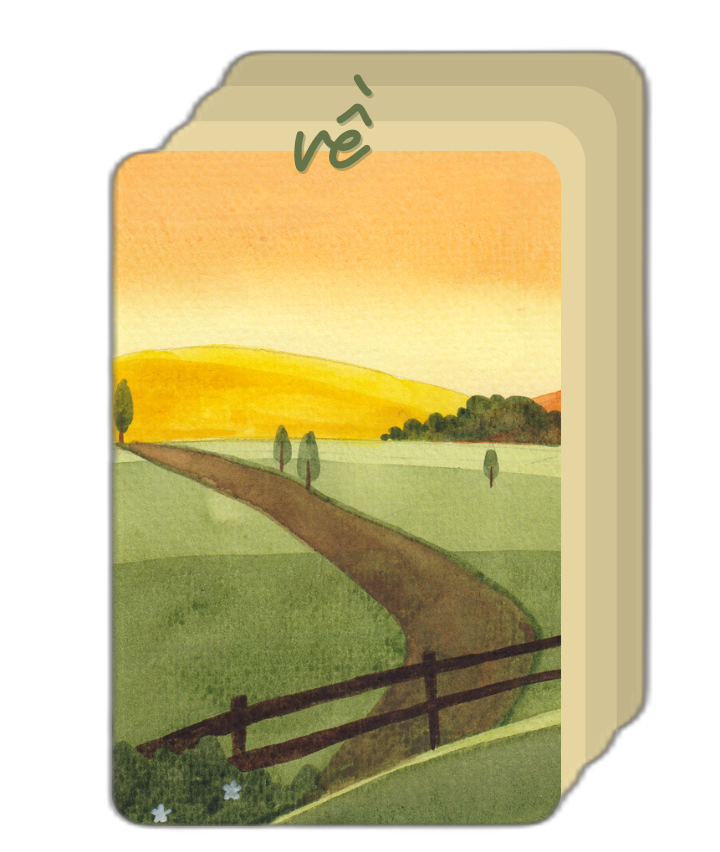
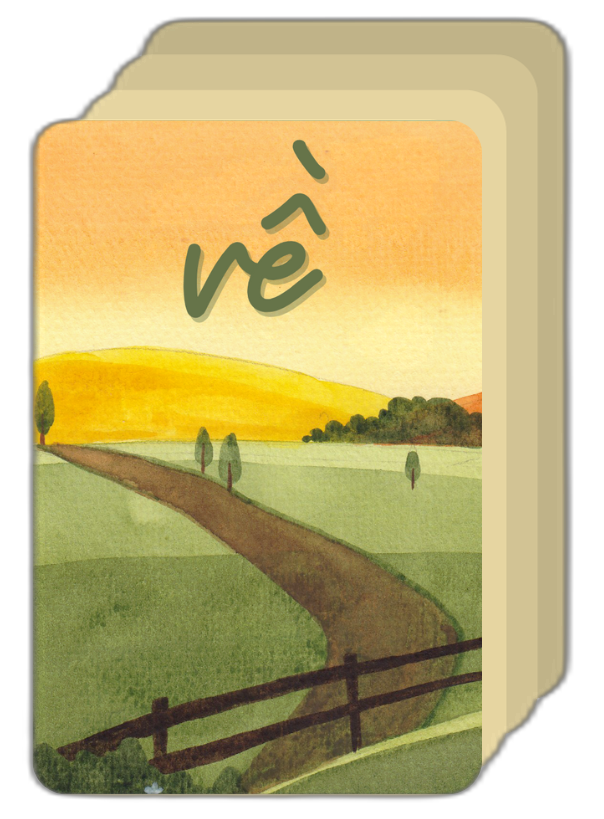
Update UI

diff --git a/style.css b/style.css
@@ -5,7 +5,7 @@ html {
 
 body {
 	background-image: url('./images/background.png');
-	background-size: cover;
+	background-size: initial;
 }
 
 .intro {
@@ -30,31 +30,52 @@ body {
 	font-family: "YADK36WKZLc 0", _fb_, auto;
 }
 
-.intro .gr-button {
+.gr-button {
 	margin-top: 50px;
 }
 
-.intro .gr-button .btn-overview,
-.intro .gr-button .btn-try {
+.gr-button .btn-overview,
+.gr-button .btn-try, 
+.gr-button .btn-back {
 	border-radius: 20px;
-	padding: 13px 7%;
+	padding: 13px;
 	text-decoration: none;
 }
 
-.intro .gr-button .btn-overview a,
-.intro .gr-button .btn-try a {
+.gr-button .btn-overview a,
+.gr-button .btn-try a,
+.gr-button .btn-back a {
 	text-decoration: none;
 	color: #000;
 }
 
-.intro .gr-button .btn-overview {
+.gr-button .btn-overview {
 	background: #bedfe4;
 	margin-right: 20%;
 }
 
-.intro .gr-button .btn-try {
+.gr-button .btn-try, 
+.gr-button .btn-back, 
+.gr-button .icon-instruct {
 	background: #1c2143;
 	color: #fff;
+}
+
+.icon-try, .icon-back {
+	background: #bedfe4;
+	color: #000;
+}
+
+.icon-instruct, .icon-try, .icon-back {
+	padding: 3px 9px;
+	border-radius: 50%;
+	margin-left: 20px;
+	font-family: monospace, serif;
+	font-size: 18px;
+}
+
+.icon-back {
+	margin: 0 20px 0 0;
 }
 
 #content,
@@ -68,27 +89,23 @@ body {
 	cursor: pointer;
 }
 
-.background {
+.result {
 	position: relative;
-	width: 50%;
-	height: auto;
+	height: 445px;
+	width: 300px;
 	margin: 0 auto;
-	top: -160px;
-	left: -10px;
+	bottom: 376px;
+	left: -25px;
 	z-index: 2;
-	background-color: #93b6bb;
 }
 
 .bg-result {
 	position: relative;
-	width: 50%;
-	height: auto;
 	margin: 0 auto;
 	z-index: 1;
-}
-
-#result_image {
-	border-radius: 13px;
+	background-size: cover;
+	height: 450px;
+	width: 303px;
 }
 
 .dp-none {

diff --git a/game.html b/game.html
@@ -12,8 +12,6 @@
 
 <body>
 	<div id="content">
-    
-        <a href="/"> back</a>
 		<div id="list-card">
 			<div>
 				<image src="images/cards.png" class='card' height="50%" width="50%" />
@@ -25,13 +23,20 @@
 
 		<div id="content_result" class="dp-none">
 			<div class="bg-result">
-				<img id="result_bg1" class="dp-none" src="/images/bg-card1.png" alt="thong_diep1"  width="50%">
-				<img id="result_bg2" class="dp-none" src="/images/bg-card2.png" alt="thong_diep2" height="50%" width="50%">
-				<img id="result_bg3" class="dp-none" src="/images/bg-card3.png" alt="thong_diep3" height="50%" width="50%">
+				<img id="result_bg1" class="dp-none" src="/images/bg-card1.png" alt="thong_diep1" width="100%">
+				<img id="result_bg2" class="dp-none" src="/images/bg-card2.png" alt="thong_diep2" width="100%">
+				<img id="result_bg3" class="dp-none" src="/images/bg-card3.png" alt="thong_diep3" width="100%">
 			</div>
 			<div class="result">
-				<img id="result_image" alt="thong_diep" width="50%">
+				<img id="result_image" alt="thong_diep" width="73%">
 			</div>
+		</div>
+
+		<div class="dp-none gr-button" id="#back">
+			<a href="/" class="btn-back">
+				<span class="icon-back">&lt;</span>
+				Quay lại
+			</a>
 		</div>
 	</div>
 
@@ -57,4 +62,4 @@
 	function getRandomInt(max) {
 		return Math.floor(Math.random() * max);
 	}
-</script> 
+</script>

diff --git a/index.html b/index.html
@@ -32,8 +32,14 @@
 			</p>
 		</div>
 		<div class="gr-button">
-			<a href="#instruct" class="btn-overview">Tổng quan</a>
-			<a href="/game.html" class="btn-try">Thử ngay </a>
+			<a href="#instruct" class="btn-overview">
+				Tổng quan
+				<span class="icon-instruct">&gt;</span>
+			</a>
+			<a href="/game.html" class="btn-try">
+				Thử ngay 
+				<span class="icon-try">&gt;</span>
+			</a>
 		</div>
 	</div>
 
